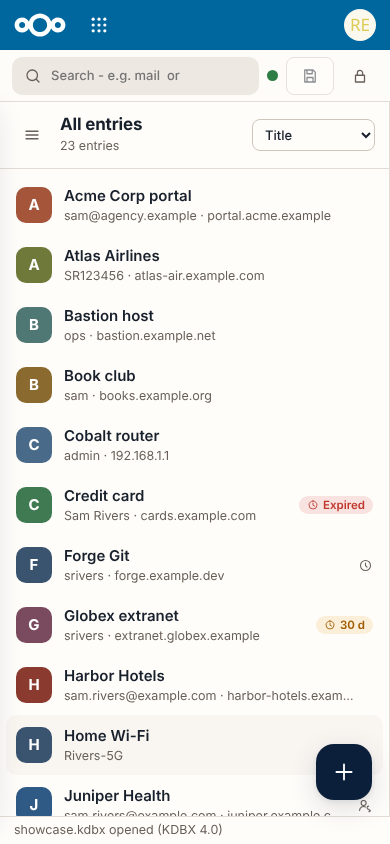
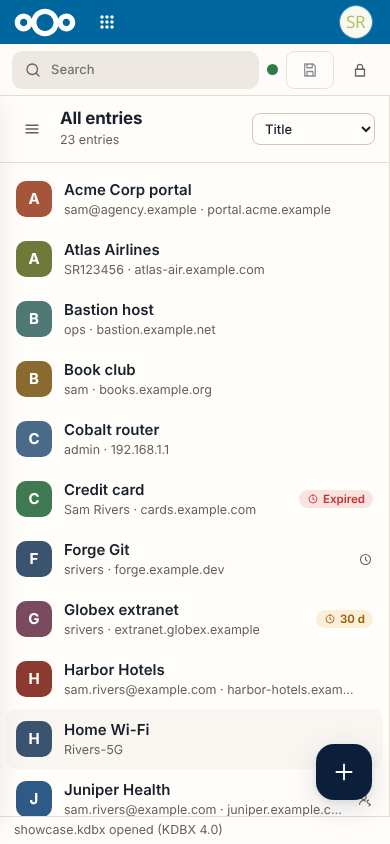
Release 0.10.0
The generator rework (passphrases first, German words, Simple for TV
remotes) and the Nextcloud 35 header. The six README screenshots are
retaken against Nextcloud 35.0.2 with the stock theme, so they show the
new header and the new generator.

diff --git a/nextcloud-app/keepassnc/CHANGELOG.md b/nextcloud-app/keepassnc/CHANGELOG.md
@@ -2,14 +2,16 @@
 
 Format based on [Keep a Changelog](https://keepachangelog.com/en/1.1.0/).
 
-## [Unreleased]
+## [0.10.0] - 2026-10-18
+### Added
+- Passphrases can now use German words: the [dys2p de-7776](https://github.com/dys2p/wordlists-de) list (7776 words, no umlauts, CC0), so each word is worth the same 12.9 bits as with the English EFF list. It starts out in the app's language.
+- Passphrases can get a digit stuck to one of their words, for sites that insist on a number.
+
 ### Changed
 - The header now looks like the one in Nextcloud 35 instead of its older sibling from 34: it's a bit slimmer (44 px), uses Nextcloud's font and the very same 9-dot icon. The app menu got pale round icons in your instance color that grow a little when you point at them, one shared highlight behind the 9-dot button and the app name, no arrow, and it opens when you hover there for a moment. Below the apps sits Nextcloud 35's new row of quick actions, like "Text document" from Office. Actions that need Nextcloud's own JavaScript stay out, since that doesn't run on this page.
 - The password generator opens with passphrases now, since they are the easiest strong passwords to live with. Passwords come second, and "Pronounceable" became "Simple".
-- Passphrases can now use German words: the [dys2p de-7776](https://github.com/dys2p/wordlists-de) list (7776 words, no umlauts, CC0), so each word is worth the same 12.9 bits as with the English EFF list. It starts out in the app's language.
 - "Simple" is made for TVs, consoles and anything else you have to type on with a remote: letters, two digits and a separator, nothing else. It always looks like `Fulhattmon 37 dazznellfirr`, three syllables, the digits, three syllables, and the slider just tacks on more syllables (or, if you really must, takes it down to `Fulhattmon 37`). Syllables come as `bal` (60 %), `ball` (25 %) or `ba` (15 %), so it reads a bit more like words, and they always split up only one way. No triple letters and no `hh` where two syllables meet. Each block of three syllables is worth about 32 bits, the digits another 6, and that's the exact entropy of what actually comes out, not a hopeful count. It starts with a capital letter, because so many password rules want one; if Shift on your remote is a pain, untick it.
 - Passphrases and "Simple" share one separator menu: space (the new default), dot, hyphen, comma, underscore, `@` and `!`. Space, dot, comma and `@` are on the first page of the Fire TV keyboard. Since the old hyphen default got saved every time the generator opened, a saved hyphen turns into a space once; pick it again and it stays. A separator you once typed in yourself and that isn't on the menu turns into a space, too.
-- Passphrases can get a digit stuck to one of their words, for sites that insist on a number.
 - The password tab sorts its symbols into two groups: "Symbols 1" (`! ? . , : ; - _ + = * " $ % & @`, on by default) are the ones phones and TVs offer without much hunting, "Symbols 2" (`' / \ | ( ) [ ] { } < > # ^ ~` and the backtick) are the rest. The six old groups get mapped over, so if you had symbols switched off, they stay off. Extended ASCII and custom or excluded characters live under "More options", which opens by itself when you use them.
 
 ## [0.9.1] - 2026-10-17
